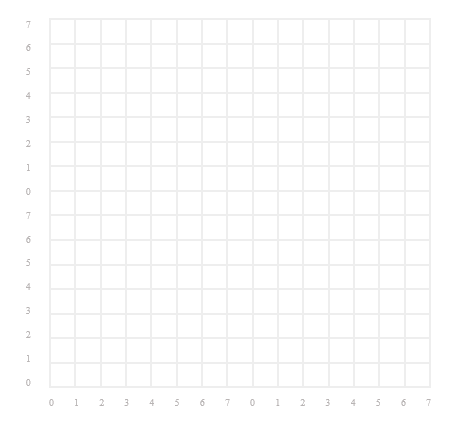
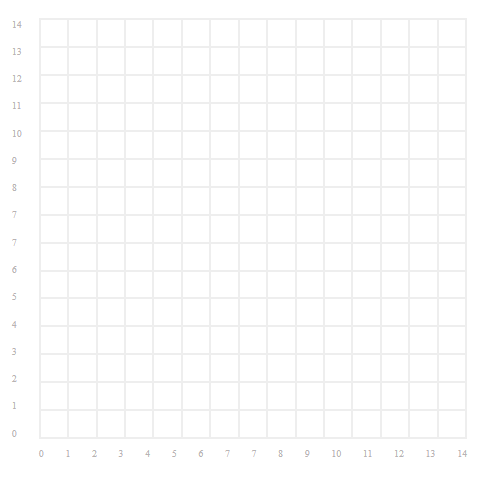
Change width vertical scale values with media query (max width: 800px) and change  image position in readme file

diff --git a/scss/style.scss b/scss/style.scss
@@ -150,10 +150,10 @@
     display: flex;
     flex-direction: column-reverse;
     justify-content: space-between;
-    align-items: center;
+    align-items:flex-start;
     @media screen and (max-width: 800px) {
         height: 60vw;
-        left: -2vw;
+        left: -4vw;
         bottom: calc(60vw + 20px);
     }
 }

diff --git a/css/style.css b/css/style.css
@@ -516,12 +516,12 @@
   display: flex;
   flex-direction: column-reverse;
   justify-content: space-between;
-  align-items: center;
+  align-items: flex-start;
 }
 @media screen and (max-width: 800px) {
   .scale-vals-v {
     height: 60vw;
-    left: -2vw;
+    left: -4vw;
     bottom: calc(60vw + 20px);
   }
 }
